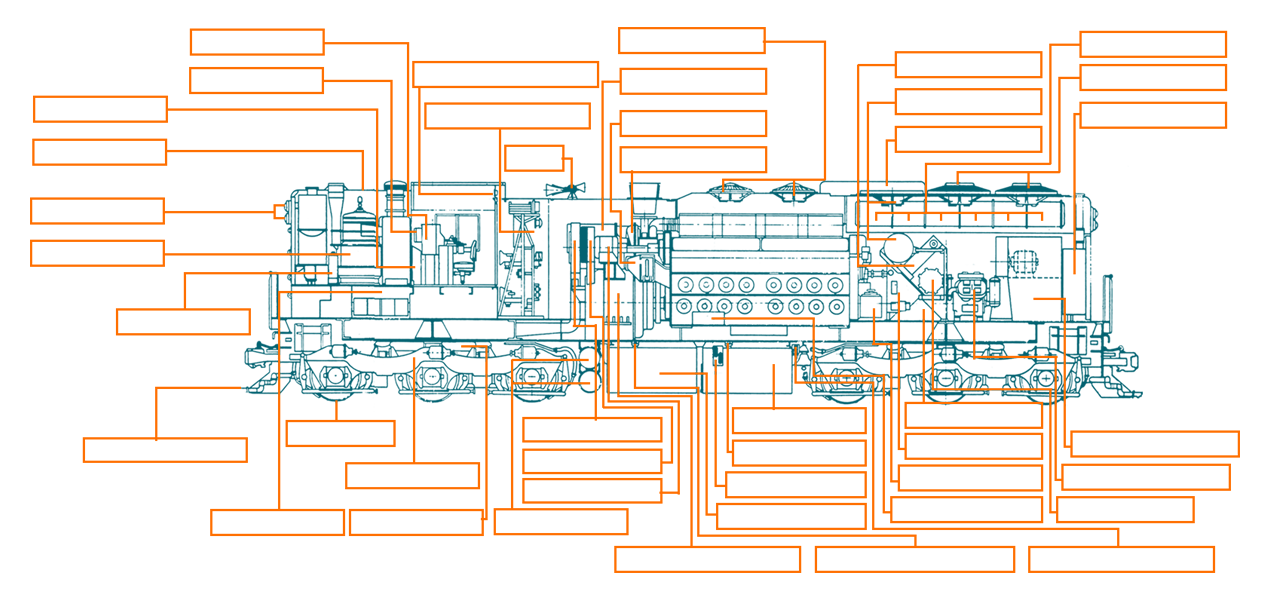
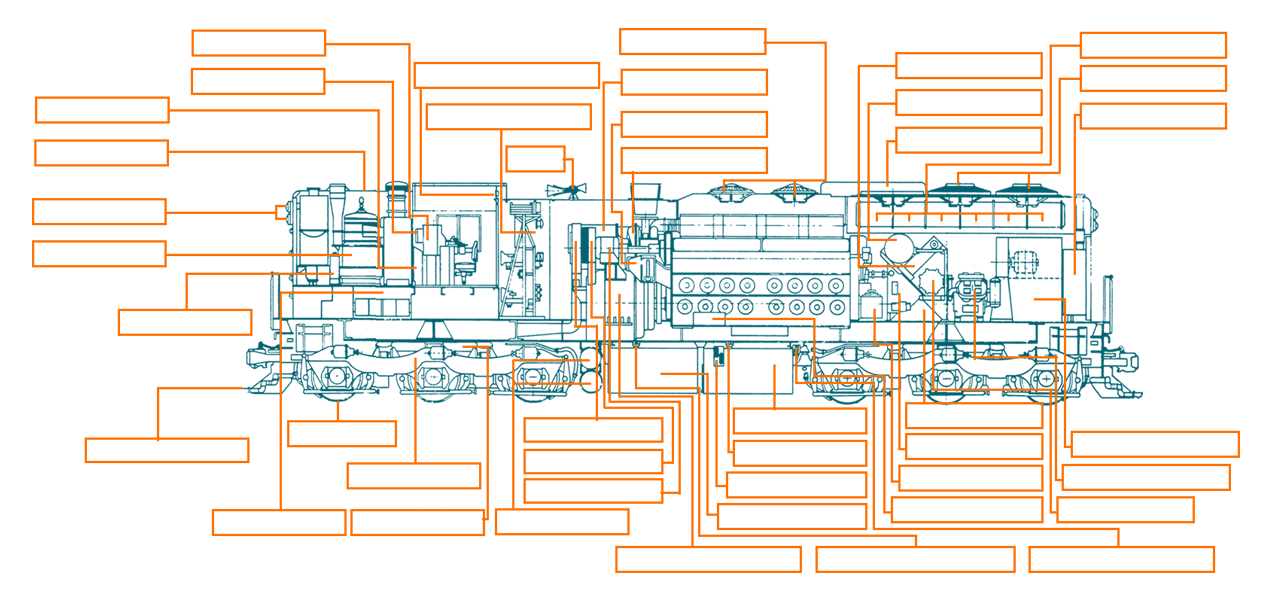
define title box area and change image

diff --git a/public/css/theme.css b/public/css/theme.css
@@ -15,7 +15,7 @@
 
   area:hover{
     display: block; 
-    background-color: #ffab00;
+    stroke: rgba(255,255,255,0.5);
   }
 
   .margin {

diff --git a/resources/views/check_parttrain.blade.php b/resources/views/check_parttrain.blade.php
@@ -44,35 +44,81 @@
         <div class="collapse navbar-collapse" id="myNavbar">
           <ul class="nav navbar-nav navbar-right">
             <li><a href='../'>ระบบจัดการใช้ชุดรถไฟ<span class="sr-only">(current)</span></a></li>
-            <li class="dropdown">
+            <li class="dropdown active">
               <a href="#" class="dropdown-toggle" data-toggle="dropdown" role="button" aria-haspopup="true" aria-expanded="false">การเข้าซ่อม<span class="caret"></span></a>
               <!-- Drop Maintenance Plan -->
               <ul class="dropdown-menu">
-                <li><a href='/maintenance_plan'>ระบบจัดการแผนเข้าซ่อม</a></li>
-                <li><a href='../maintenance'>ระบบจัดการการเข้าซ่อม</a></li>
+                <li class="normal"><a href='/maintenance_plan'>ระบบจัดการแผนเข้าซ่อม</a></li>
+                <li class="active"><a href='../maintenance'>ระบบจัดการการเข้าซ่อม</a></li>
               </ul>
             </li>
             <li><a href='../trainset_management'>จัดการชุดรถไฟ</a></li>
             <li><a href='../car_management'>จัดการตู้รถไฟ</a></li>
             <li><a href='../part_management'>จัดการอะไหล่</a></li>            
-            <li class="active"><a href='../depot_management'>จัดการศูนย์ซ่อม</a></li>
+            <li><a href='../depot_management'>จัดการศูนย์ซ่อม</a></li>
           </ul>
         </div>
       </div>
     </nav>
 
   <!--Content-->
-  <div style="overflow-y: hidden; overflow-x: scroll; margin: 3%; background-color: #131617;">
-      <!--First Container-->
-      <img src="image/pic/loco_detail1.png" usemap = "#traindetail">
-  
 
-      <map name="traindetail">
-        <area shape="rect" coords="229,514,365,540" href="#" onmouseover="writeText('454354')" alt="Batteries">
+  <!--First Container-->
+  <p id="desc" style="text-align: center; font-weight: bold; margin-top: 10px; font-size: 20px;">ตรวจสภาพอะไหล่</p>
+  <div style="overflow-y: hidden; overflow-x: scroll; margin-left: 3%; margin-right: 3%; background-color: #131617;">
+      <img src="image/pic/loco_detail1.png" usemap = "#locodetail">
+      <map name="locodetail">
+        <area shape="rect" coords="83,437,248,464" href="#SteamEndConnection" onmouseover="writeText('Steam End Connection')" onmouseout="writeText('ตรวจสภาพอะไหล่')" alt="SteamEndConnection">
+        <area shape="rect" coords="210,510,346,537" href="#Batteries" onmouseover="writeText('Batteries')" onmouseout="writeText('ตรวจสภาพอะไหล่')" alt="Batteries">
+        <area shape="rect" coords="286,420,398,448" href="#Wheels" onmouseover="writeText('Wheels')" onmouseout="writeText('ตรวจสภาพอะไหล่')" alt="Wheels">
+        <area shape="rect" coords="346,463,481,490" href="#Trucks" onmouseover="writeText('Trucks')" onmouseout="writeText('ตรวจสภาพอะไหล่')" alt="Trucks">
+        <area shape="rect" coords="350,509,486,537" href="#GroundLight" onmouseover="writeText('Ground Light')" onmouseout="writeText('ตรวจสภาพอะไหล่')" alt="Ground Light">
+        <area shape="rect" coords="494,508,630,536" href="#MainAirServoir" onmouseover="writeText('Main Air Servoir')" onmouseout="writeText('ตรวจสภาพอะไหล่')" alt="Main Air Servoir">
+        <area shape="rect" coords="522,417,663,444" href="#TractionMotorBlower" onmouseover="writeText('Traction Motor Blower')" onmouseout="writeText('ตรวจสภาพอะไหล่')" alt="Traction Motor Blower">
+        <area shape="rect" coords="522,449,663,475" href="#GeneratorBlower" onmouseover="writeText('Generator Blower')" onmouseout="writeText('ตรวจสภาพอะไหล่')" alt="Generator Blower">
+        <area shape="rect" coords="522,478,663,505" href="#AuxiliaryGenerator" onmouseover="writeText('Auxiliary Generator')" onmouseout="writeText('ตรวจสภาพอะไหล่')" alt="Auxiliary Generator">
+        <area shape="rect" coords="614,546,800,574" href="#MainGenerator&Alternator" onmouseover="writeText('Main Generator &amp; Alternator')" onmouseout="writeText('ตรวจสภาพอะไหล่')" alt="Main Generator &amp; Alternator">
+        <area shape="rect" coords="815,546,1016,574" href="#FilterSteamGeneratorWaterTank" onmouseover="writeText('Filter - Steam Generator Water Tank')" onmouseout="writeText('ตรวจสภาพอะไหล่')" alt="Filter - Steam Generator Water Tank">
+        <area shape="rect" coords="716,503,868,531" href="#WaterTank" onmouseover="writeText('Water Tank')" onmouseout="writeText('ตรวจสภาพอะไหล่')" alt="Water Tank">
+        <area shape="rect" coords="725,471,868,499" href="#GaugeFuelTank" onmouseover="writeText('Gauge - Fuel Tank')" onmouseout="writeText('ตรวจสภาพอะไหล่')" alt="Gauge - Fuel Tank">
+        <area shape="rect" coords="732,439,868,468" href="#FilterFuel" onmouseover="writeText('Filter - Fuel')" onmouseout="writeText('ตรวจสภาพอะไหล่')" alt="Filter - Fuel">
+        <area shape="rect" coords="732,407,868,435" href="#FuelTank" onmouseover="writeText('Fuel Tank')" onmouseout="writeText('ตรวจสภาพอะไหล่')" alt="Fuel Tank">
+        <area shape="rect" coords="1028,546,1216,574" href="#EmergencyFuelCutoff" onmouseover="writeText('Emergency Fuel Cutoff')" onmouseout="writeText('ตรวจสภาพอะไหล่')" alt="Emergency Fuel Cutoff">
+        <area shape="rect" coords="890,496,1044,524" href="#SoakBackPump" onmouseover="writeText('SoakBackPump')" onmouseout="writeText('ตรวจสภาพอะไหล่')" alt="SoakBackPump">
+        <area shape="rect" coords="898,464,1044,493" href="#LubeOilFilter&Strainer" onmouseover="writeText('Lube Oil Filter &amp; Strainer')" onmouseout="writeText('ตรวจสภาพอะไหล่')" alt="Lube Oil Filter &amp; Strainer">
+        <area shape="rect" coords="905,433,1044,461" href="#FuelSuctionStrainer" onmouseover="writeText('Fuel Suction Strainer')" onmouseout="writeText('ตรวจสภาพอะไหล่')" alt="Fuel Suction Strainer">
+        <area shape="rect" coords="905,402,1044,430" href="#FuelPump" onmouseover="writeText('Fuel Pump')" onmouseout="writeText('ตรวจสภาพอะไหล่')" alt="Fuel Pump">
+        <area shape="rect" coords="1056,496,1196,524" href="#LubeOilFilter" onmouseover="writeText('Lube Oil Filter')" onmouseout="writeText('ตรวจสภาพอะไหล่')" alt="Lube Oil Filter" alt="Lube Oil Filter">
+        <area shape="rect" coords="1061,464,1241,492" href="#WaterCooledAirCompressor" onmouseover="writeText('Water Cooled Air Compressor')" onmouseout="writeText('ตรวจสภาพอะไหล่')" alt="Water Cooled Air Compressor">
+        <area shape="rect" coords="1070,430,1241,459" href="#2ndElectricalContralCabinet" onmouseover="writeText('2nd Electrical Contral Cabinet')" onmouseout="writeText('ตรวจสภาพอะไหล่')" alt="2nd Electrical Contral Cabinet">
+
+        <area shape="rect" coords="1080,103,1228,131" href="#SandBox" onmouseover="writeText('Sand Box')" onmouseout="writeText('ตรวจสภาพอะไหล่')" alt="Sand Box">
+        <area shape="rect" coords="1080,65,1228,93" href="#48Fan&Moter" onmouseover="writeText('48&quot; Fan &amp; Moter')" onmouseout="writeText('ตรวจสภาพอะไหล่')" alt="48&quot; Fan &amp; Moter">
+        <area shape="rect" coords="1080,32,1228,60" href="#Radiator" onmouseover="writeText('Radiator')" onmouseout="writeText('ตรวจสภาพอะไหล่')" alt="Radiator">
+        <area shape="rect" coords="895,127,1044,155" href="#CoolingHatch" onmouseover="writeText('Cooling Hatch')" onmouseout="writeText('ตรวจสภาพอะไหล่')" alt="Cooling Hatch">
+        <area shape="rect" coords="895,89,1044,117" href="#EngineWaterTank" onmouseover="writeText('Engine Water Tank')" onmouseout="writeText('ตรวจสภาพอะไหล่')" alt="Engine Water Tank">
+        <area shape="rect" coords="895,52,1044,80" href="#LubeOilCooler" onmouseover="writeText('Lube Oil Cooler')" onmouseout="writeText('ตรวจสภาพอะไหล่')" alt="Lube Oil Cooler">
+        <area shape="rect" coords="619,28,767,56" href="#36Fan&Moter" onmouseover="writeText('36&quot; Fan &amp; Moter')" onmouseout="writeText('ตรวจสภาพอะไหล่')" alt="36&quot; Fan &amp; Moter">
+        <area shape="rect" coords="621,147,769,175" href="#EngineTurbocharger" onmouseover="writeText('Engine Turbo charger')" onmouseout="writeText('ตรวจสภาพอะไหล่')" alt="Engine Turbo charger">
+        <area shape="rect" coords="621,111,769,139" href="#TurboIntercooler" onmouseover="writeText('Turbo Intercooler')" onmouseout="writeText('ตรวจสภาพอะไหล่')" alt="Turbo Intercooler">
+        <area shape="rect" coords="621,69,769,97" href="#TurboAirIntel&Silencer" onmouseover="writeText('Turbo Air Intel &amp; Silencer')" onmouseout="writeText('ตรวจสภาพอะไหล่')" alt="Turbo Air Intel &amp; Silencer">
+        <area shape="rect" coords="506,146,567,173" href="#Horn" onmouseover="writeText('Horn')" onmouseout="writeText('ตรวจสภาพอะไหล่')" alt="Horn">
+        <area shape="rect" coords="426,103,592,131" href="#1stElectricalContralCabinet" onmouseover="writeText('1st Electrical Contral Cabinet')" onmouseout="writeText('ตรวจสภาพอะไหล่')" alt="1st Electrical Contral Cabinet">
+        <area shape="rect" coords="414,62,601,90" href="#EngineControl&InstrumentPanel" onmouseover="writeText('Engine Control &amp; Instrument Panel')" onmouseout="writeText('ตรวจสภาพอะไหล่')" alt="Engine Control &amp; Instrument Panel">
+        <area shape="rect" coords="192,30,327,58" href="#ControlStand" onmouseover="writeText('Control Stand')" onmouseout="writeText('ตรวจสภาพอะไหล่')" alt="Control Stand">
+        <area shape="rect" coords="191,68,327,96" href="#SpeedRecorder" onmouseover="writeText('Speed Recorder')" onmouseout="writeText('ตรวจสภาพอะไหล่')" alt="Speed Recorder">
+        <area shape="rect" coords="35,96,170,124" href="#CabHatch" onmouseover="writeText('Cab Hatch')" onmouseout="writeText('ตรวจสภาพอะไหล่')" alt="Cab Hatch">
+        <area shape="rect" coords="34,139,170,168" href="#Hatch" onmouseover="writeText('Hatch')" onmouseout="writeText('ตรวจสภาพอะไหล่')" alt="Hatch">
+        <area shape="rect" coords="32,198,168,226" href="#Headlight" onmouseover="writeText('Headlight')" onmouseout="writeText('ตรวจสภาพอะไหล่')" alt="Headlight">
+        <area shape="rect" coords="32,240,168,268" href="#SteamGenerator" onmouseover="writeText('Steam Generator')" onmouseout="writeText('ตรวจสภาพอะไหล่')" alt="Steam Generator">
+        <area shape="rect" coords="118,309,253,337" href="#WaterTreatment" onmouseover="writeText('Water Treatment')" onmouseout="writeText('ตรวจสภาพอะไหล่')" alt="Water Treatment">
       </map>
   </div>
 
-      <p id="desc">rytet</p>
+ 
+   <!--  <p id="desc">rytet</p> -->
+    <br><br>
+  
       
       <script>
         function writeText(txt) {
